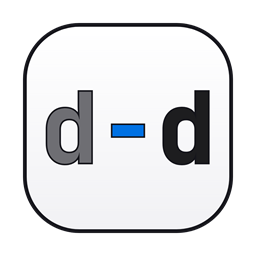
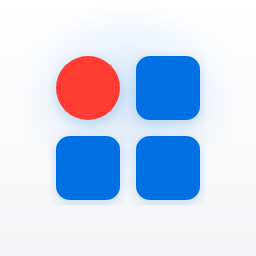
release: prepare v0.1.2
New extension icon (a Windows four-pane window with a red breakpoint dot, in the
brand blue) and bump to 0.1.2. The Marketplace listing refresh (user-facing
README, demo videos) is already on main; this packages it for release. No
functional changes.

diff --git a/vscode/CHANGELOG.md b/vscode/CHANGELOG.md
@@ -4,6 +4,18 @@ All notable changes to the Native Windows Debugging (dbgeng) extension are docum
 here. The format is based on [Keep a Changelog](https://keepachangelog.com/en/1.1.0/), and
 this project adheres to [Semantic Versioning](https://semver.org/spec/v2.0.0.html).
 
+## [0.1.2] - 2026-06-08
+
+### Changed
+
+- Redesigned the extension icon: a Windows four-pane window with the top-left pane as a
+  red breakpoint dot, in the brand blue.
+- Reworked the Marketplace listing to be user-facing - it follows the getting-started
+  guide, shows the most common `launch.json` configurations, and embeds the promo and
+  scenario demo videos.
+
+No functional changes.
+
 ## [0.1.1] - 2026-06-07
 
 ### Changed
@@ -36,5 +48,6 @@ Initial release.
   host.
 - `dap-dbgeng.adapterPath` setting to override the bundled adapter.
 
+[0.1.2]: https://github.com/svnscha/dap-dbgeng/releases/tag/v0.1.2
 [0.1.1]: https://github.com/svnscha/dap-dbgeng/releases/tag/v0.1.1
 [0.1.0]: https://github.com/svnscha/dap-dbgeng/releases/tag/v0.1.0